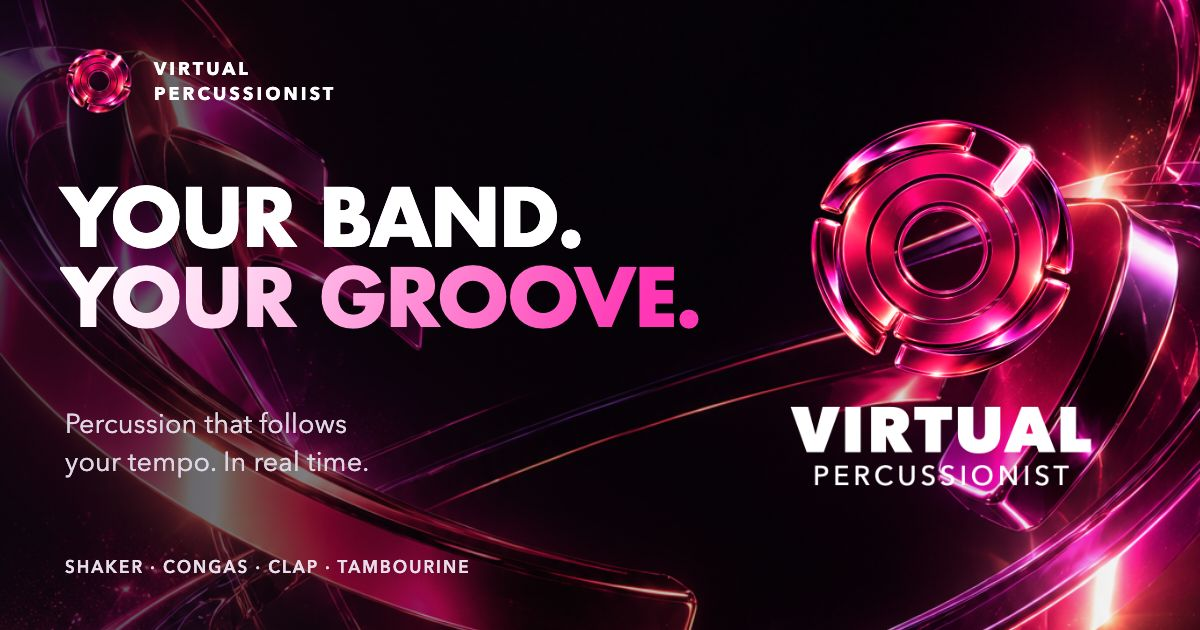
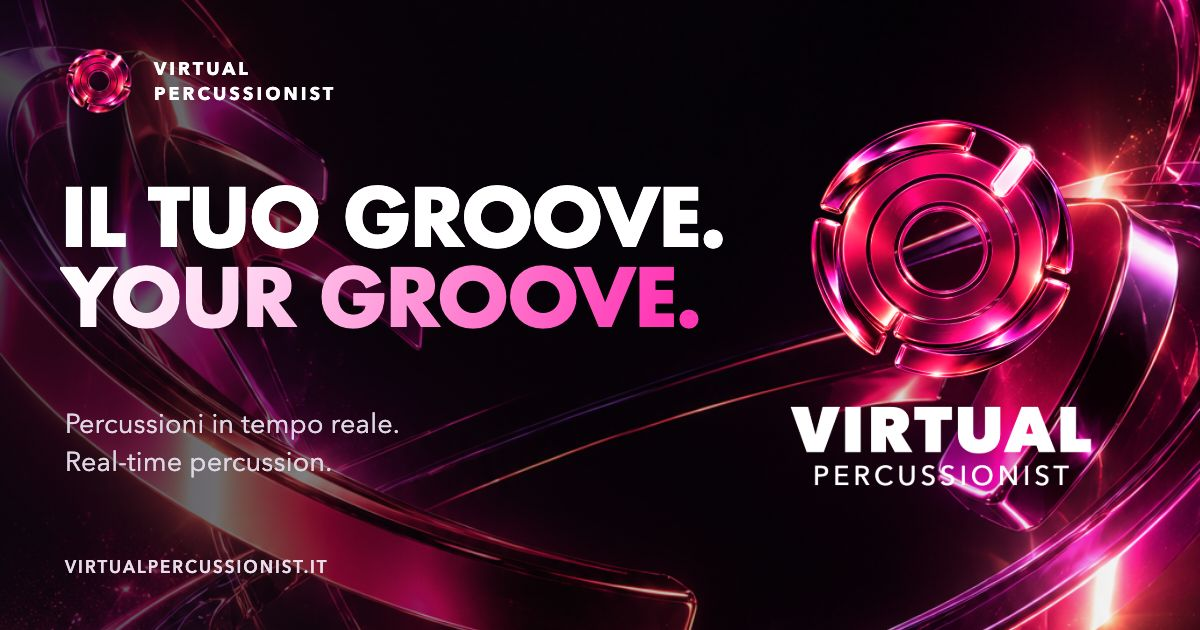
Use bilingual sharing artwork across the site

diff --git a/index.html b/index.html
@@ -10,7 +10,7 @@
 <meta property="og:type" content="website">
 <meta property="og:title" content="Virtual Percussionist — A percussionist that listens">
 <meta property="og:description" content="Percussion that follows your band in real time. MIXER for live use, microphone or a loaded track. Analysis on your device.">
-<meta property="og:image" content="https://virtualpercussionist.it/assets/og.png?v=brand2">
+<meta property="og:image" content="https://virtualpercussionist.it/assets/og.png?v=brand3">
 <meta name="twitter:card" content="summary_large_image">
 <link rel="icon" type="image/png" href="./favicon.png?v=brand2">
 <link rel="apple-touch-icon" href="./apple-touch-icon.png?v=brand2">

diff --git a/guide/index.html b/guide/index.html
@@ -10,7 +10,7 @@
 <meta property="og:type" content="website">
 <meta property="og:title" content="Settings guide — Virtual Percussionist">
 <meta property="og:description" content="Inputs, tempo, lock, levels and controls. How to use MIXER, IPAD and TRACK, in real time.">
-<meta property="og:image" content="https://virtualpercussionist.it/assets/og.png?v=brand2">
+<meta property="og:image" content="https://virtualpercussionist.it/assets/og.png?v=brand3">
 <meta name="twitter:card" content="summary_large_image">
 <link rel="icon" type="image/png" href="../favicon.png?v=brand2">
 <link rel="apple-touch-icon" href="../apple-touch-icon.png?v=brand2">

diff --git a/support/index.html b/support/index.html
@@ -10,7 +10,7 @@
 <meta property="og:type" content="website">
 <meta property="og:title" content="Support — Virtual Percussionist">
 <meta property="og:description" content="Help with tempo, silence, audio and Pro access. Contact Virtual Percussionist support.">
-<meta property="og:image" content="https://virtualpercussionist.it/assets/og.png?v=brand2">
+<meta property="og:image" content="https://virtualpercussionist.it/assets/og.png?v=brand3">
 <meta name="twitter:card" content="summary_large_image">
 <link rel="icon" type="image/png" href="../favicon.png?v=brand2">
 <link rel="apple-touch-icon" href="../apple-touch-icon.png?v=brand2">

diff --git a/privacy/index.html b/privacy/index.html
@@ -10,7 +10,7 @@
 <meta property="og:type" content="website">
 <meta property="og:title" content="Privacy Policy — Virtual Percussionist">
 <meta property="og:description" content="How Virtual Percussionist handles audio, local settings and purchases.">
-<meta property="og:image" content="https://virtualpercussionist.it/assets/og.png?v=brand2">
+<meta property="og:image" content="https://virtualpercussionist.it/assets/og.png?v=brand3">
 <meta name="twitter:card" content="summary_large_image">
 <link rel="icon" type="image/png" href="../favicon.png?v=brand2">
 <link rel="apple-touch-icon" href="../apple-touch-icon.png?v=brand2">
